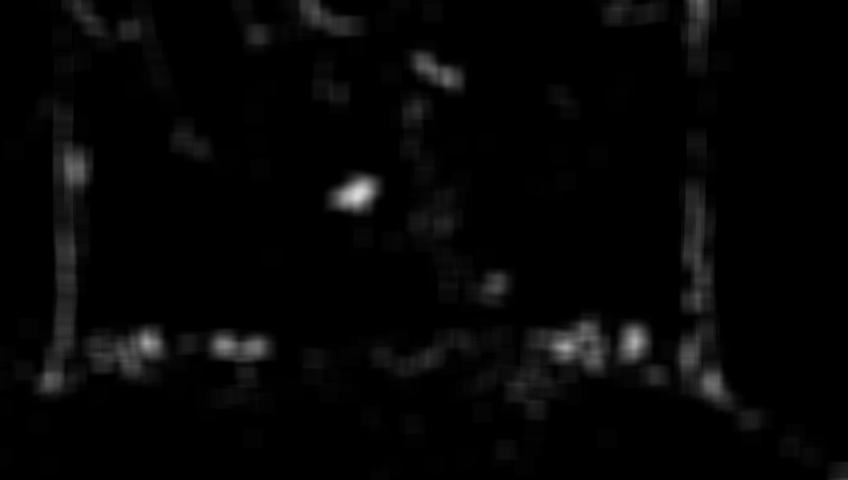
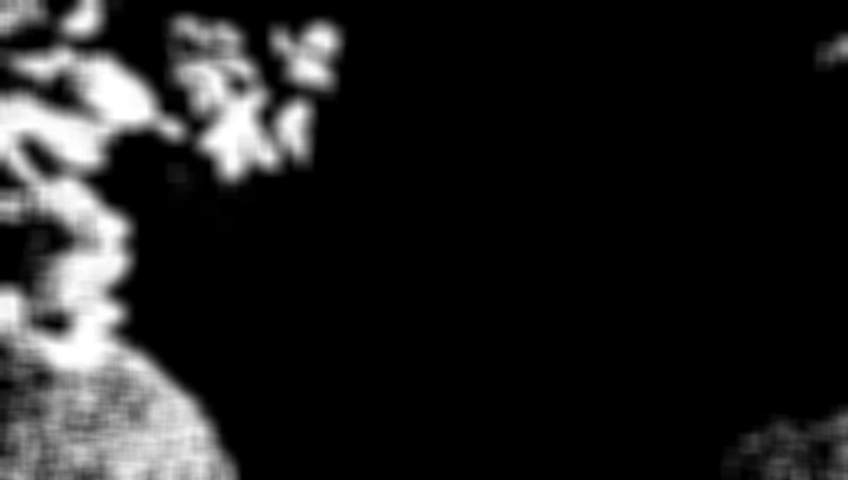
plots

diff --git a/jetson/src/core/imaging.cpp b/jetson/src/core/imaging.cpp
@@ -77,7 +77,7 @@ std::vector<Point2D> findFlowerCenters(cv::Mat& image){
 	cv::Mat yellowMask = colorMask(image, {255, 255, 255}, 0.1, 75);
 	cv::imwrite("./plots/yellow.png", yellowMask);
 
-	cv::Mat green = colorMask(image, {82, 105, 74}, 0.1, 50);
+	cv::Mat green = colorMask(image, {30, 55, 15}, 0.2, 50);
 	cv::imwrite("./plots/green.png", green);
 	cv::blur(green, green, cv::Size(20, 20));
 	cv::imwrite("./plots/blurredGreen.png", green);

diff --git a/jetson/include/core/constants.h b/jetson/include/core/constants.h
@@ -7,7 +7,7 @@ const float CARTESIAN_X_MIN = 0;        // [m]
 const float CARTESIAN_X_MAX = 0.620;    // [m]
 const float CARTESIAN_Y_MIN = 0;        // [m]
 const float CARTESIAN_Y_MAX = 0.330;    // [m]
-const float CARTESIAN_Z_MIN = 0.4;      // [m] 
+const float CARTESIAN_Z_MIN = 0.3;      // [m] 
 const float CARTESIAN_Z_MAX = 0.82;     // [m] 
 const float FLOOR_2_CAM = 0.815;        // [m]
 
